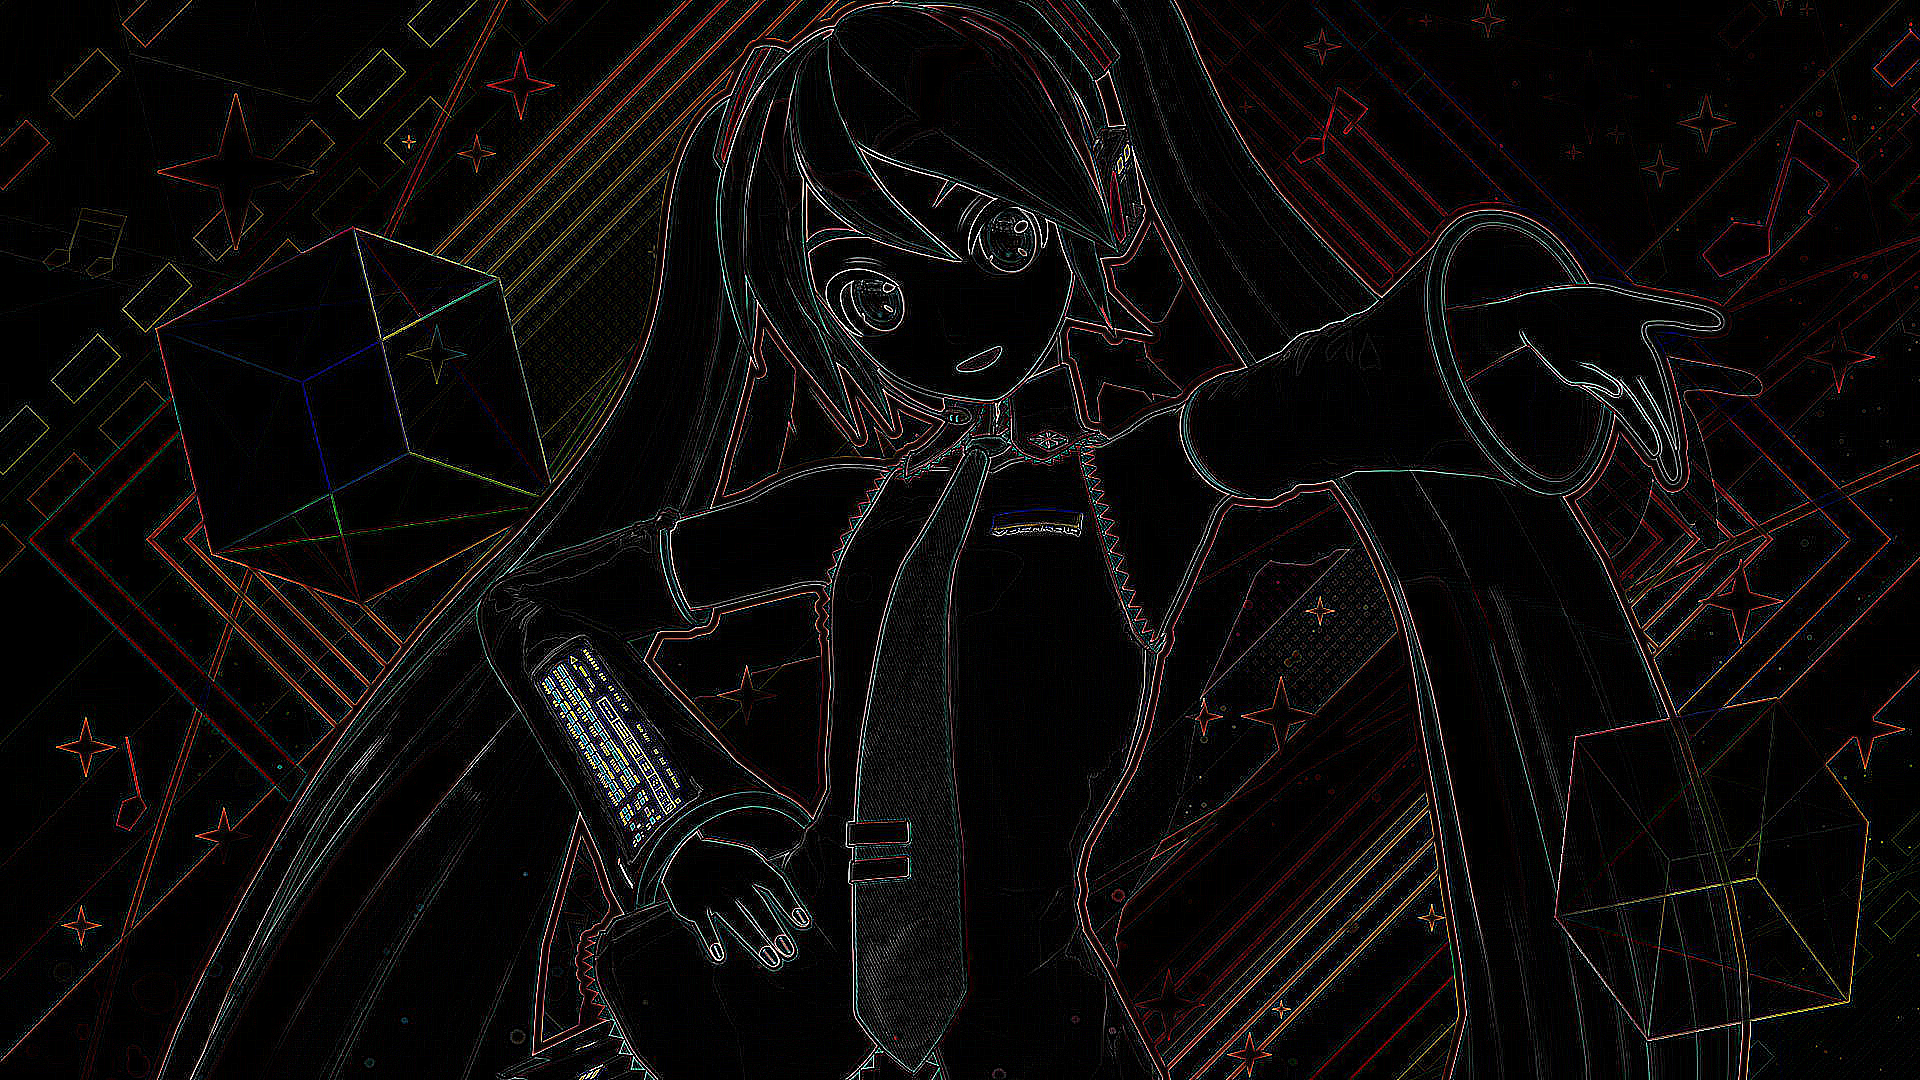
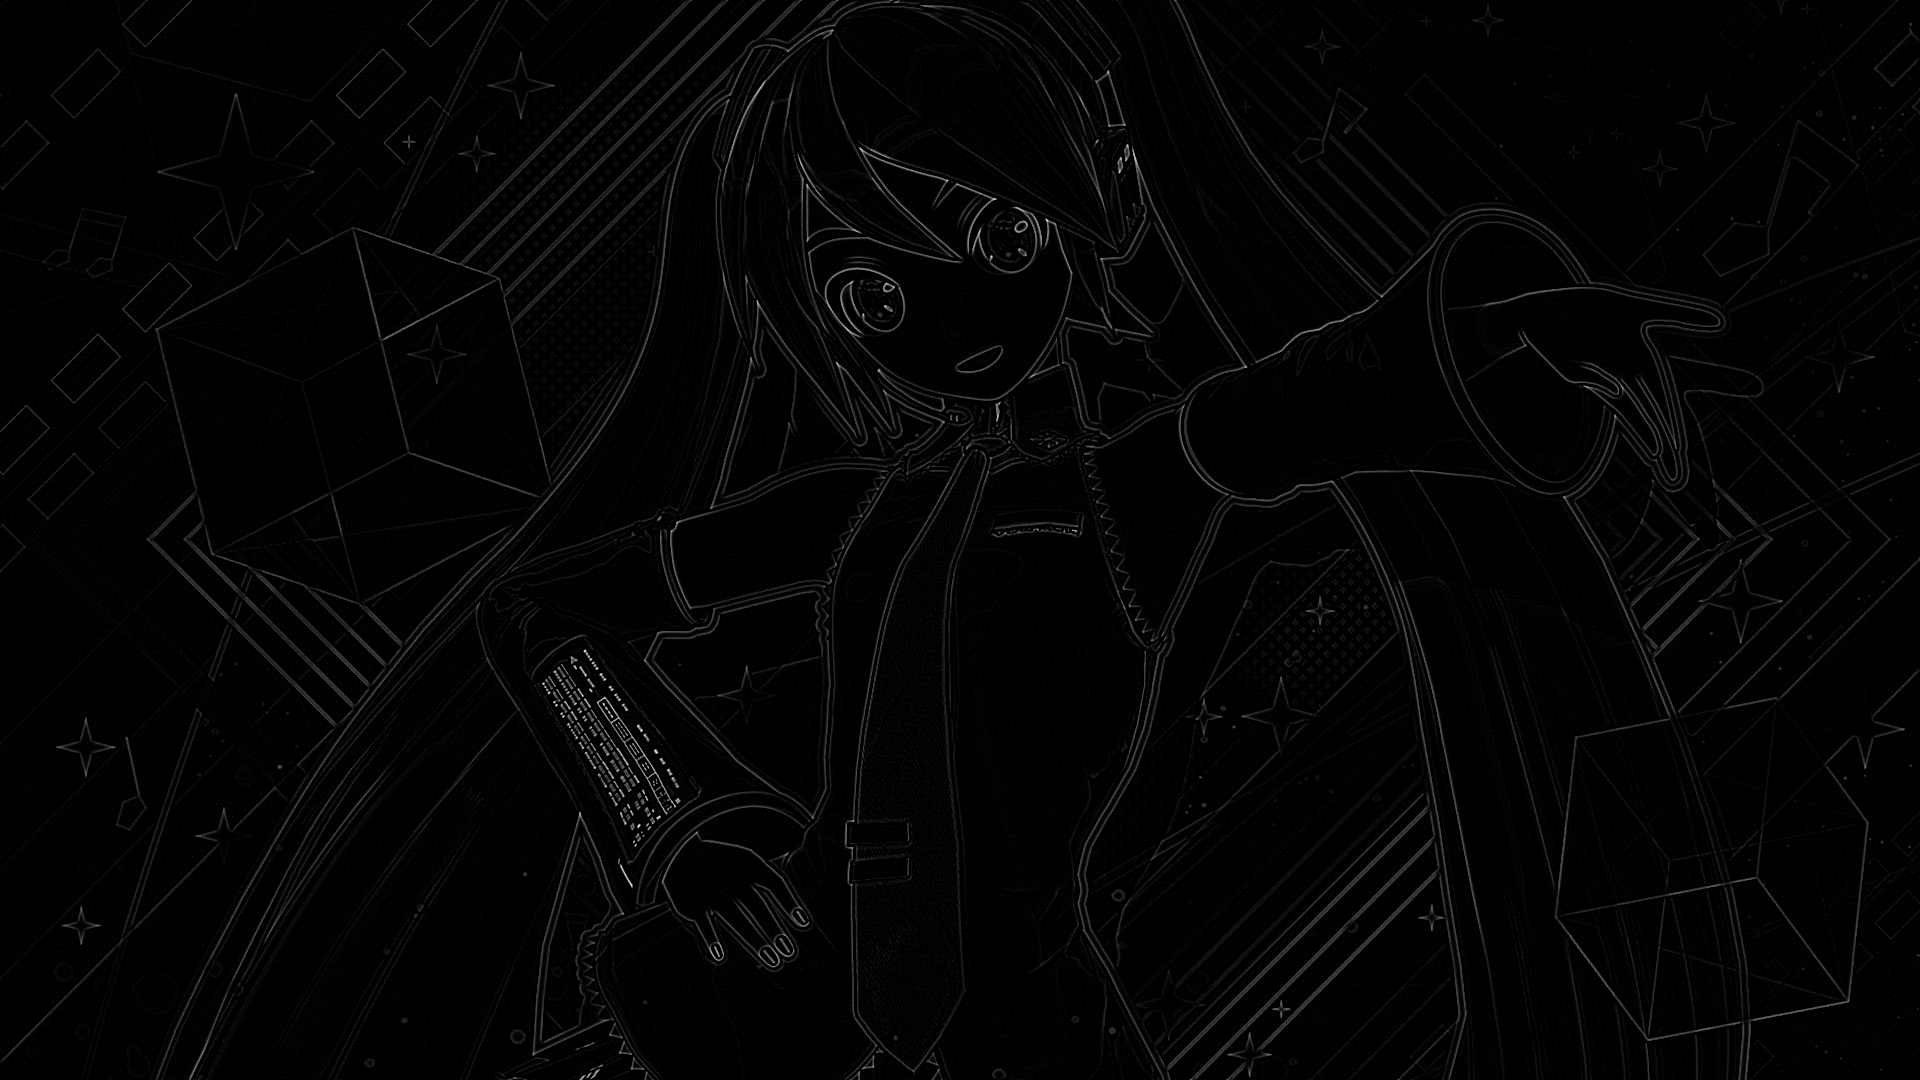
commit

diff --git a/src/main.cpp b/src/main.cpp
@@ -1,13 +1,20 @@
 #define _CRT_SECURE_NO_WARNINGS
 #include <cstdlib>
 #include <iostream>
+#define _USE_MATH_DEFINES
+#include <math.h>
 
 #define STB_IMAGE_IMPLEMENTATION
 #include "../include/stb_image.h"
 #define STB_IMAGE_WRITE_IMPLEMENTATION
 #include "../include/stb_image_write.h"
 
-uint8_t* Convolve(uint8_t* img, int w, int h, int chn, float* kernel, int kW, int kH);
+#define NUM_CHNS 3
+
+void Invert(uint8_t* img, int w, int h);
+void Convolve(uint8_t* in, uint8_t* out, int w, int h, float* kernel, int kW, int kH);
+void RGBtoGrayscale(uint8_t* img, int w, int h);
+void CalcGaussianKernel(float* k, int w, int h, float sigma);
 
 int main(int argc, char** argv) {
     
@@ -18,71 +25,112 @@ int main(int argc, char** argv) {
     //const char* inPath = argv[1];
     //const char* outPath = argv[2];
 
-    const char* inPath = "res/miku_original.jpg";
-    const char* outPath = "res/miku_out.png";
+    const char* inPath = "res/space.jpg";
+    const char* outPath = "res/space_out.png";
 
-    const int chn = 3;
     int w, h, comp;
-    uint8_t* img = stbi_load(inPath, &w, &h, &comp, chn);
+    uint8_t* img = stbi_load(inPath, &w, &h, &comp, NUM_CHNS);
     if (!img) {
         std::cerr << "Failed to load image.\n";
         return -1;
     }
 
-    float laplacian[] = {
-        -1, -1, -1,
-        -1,  8, -1,
-        -1, -1, -1
-    };
+    // grayscale conversion
+    RGBtoGrayscale(img, w, h);
 
-    float gaussian3[] = {
-        1 / 16.f, 1 /  8.f, 1 / 16.f, 
-        1 /  8.f, 1 /  4.f, 1 /  8.f, 
-        1 / 16.f, 1 /  8.f, 1 / 16.f,
-    };
+    { // gaussian convolve
+        const int kS = 20;
+        float k[kS * kS];
+        CalcGaussianKernel(k, kS, kS, 1.f);
+        uint8_t* tempBuf = new uint8_t[w * h * NUM_CHNS];
+        Convolve(img, tempBuf, w, h, k, kS, kS);
+        delete[] img;
+        img = tempBuf;
+    }
 
-    auto output = Convolve(img, w, h, chn, laplacian, 3, 3);
+    { // laplacian convolve
+        float k[] = { -1, -1, -1, -1,  8, -1, -1, -1, -1 };
+        uint8_t* tempBuf = new uint8_t[w * h * NUM_CHNS];
+        Convolve(img, tempBuf, w, h, k, 3, 3);
+        delete[] img;
+        img = tempBuf;
+    }
 
-    // write output buffer
-    stbi_write_png(outPath, w, h, chn, output, w * chn);
-    
-    // cleanup
+    // Invert(img, w, h);
+
+    // write output & cleanup
+    stbi_write_png(outPath, w, h, NUM_CHNS, img, w * NUM_CHNS);
     stbi_image_free(img);
-    delete[] output;
-
 	return 0;
 }
 
-uint8_t* Convolve(uint8_t* img, int w, int h, int chn, float* kernel, int kW, int kH) {
-    
-    uint8_t* output = new uint8_t[w * h * chn];
-    int dx = kW / 2, dy = kH / 2;
-
-    // iterate pxls in img
+void Invert(uint8_t* img, int w, int h) {
     for (int y = 0; y < h; y++) {
         for (int x = 0; x < w; x++) {
-
-            // iterate channels
-            for (int c = 0; c < chn; c++) {
-
-                float sum = 0.f;
-
-                // iterate over kernel, convolving kernel with img into sum
-                for (int ky = -dy; ky <= dy; ky++) {
-                    for (int kx = -dx; kx <= dx; kx++) {
-
-                        int ny = std::min(std::max(y + ky, 0), h - 1);
-                        int nx = std::min(std::max(x + kx, 0), w - 1);
-
-                        sum += img[chn * (ny * w + nx) + c] * kernel[(ky + dy) * kW + (kx + dx)];
-                    }
-                }
-
-                // set val in output buf to sum, for current pixel and channel
-                output[chn * (y * w + x) + c] = std::min(std::max((int)sum, 0), 255);
+            for (int c = 0; c < 3; c++) {
+                img[NUM_CHNS * (y * w + x) + c] = 255 - img[NUM_CHNS * (y * w + x) + c];
             }
         }
     }
+}
 
-    return output;
+void RGBtoGrayscale(uint8_t* img, int w, int h) {
+    // iterate pxls in img
+    for (int y = 0; y < h; y++) {
+        for (int x = 0; x < w; x++) {
+            // grayscale conversion values
+            float rMod = 0.299, gMod = 0.587, bMod = 0.114;
+
+            // calculate vals for each channel
+            float rt = ((float)img[NUM_CHNS * (y * w + x)] / 255.f) * rMod;
+            float gt = ((float)img[NUM_CHNS * (y * w + x) + 1] / 255.f) * gMod;
+            float bt = ((float)img[NUM_CHNS * (y * w + x) + 2] / 255.f) * bMod;
+
+            // sum calculated values and write to current pixel
+            uint8_t fVal = (uint8_t)std::min(std::max((int)((rt + gt + bt) * 255), 0), 255);
+            for (int c = 0; c < NUM_CHNS; c++) img[NUM_CHNS * (y * w + x) + c] = fVal;
+        }
+    }
+}
+
+void Convolve(uint8_t* in, uint8_t* out, int w, int h, float* kernel, int kW, int kH) {
+    int dx = kW / 2, dy = kH / 2;
+    // iterate pxls in img
+    for (int y = 0; y < h; y++) {
+        for (int x = 0; x < w; x++) {
+            // iterate channels
+            for (int c = 0; c < NUM_CHNS; c++) {
+                float sum = 0.f;
+                // iterate over kernel, convolving kernel with img into sum
+                for (int ky = -dy; ky <= dy; ky++) {
+                    for (int kx = -dx; kx <= dx; kx++) {
+                        int ny = std::min(std::max(y + ky, 0), h - 1);
+                        int nx = std::min(std::max(x + kx, 0), w - 1);
+                        sum += in[NUM_CHNS * (ny * w + nx) + c] * kernel[(ky + dy) * kW + (kx + dx)];
+                    }
+                }
+                // set val in output buf to sum, for current pixel and channel
+                out[NUM_CHNS * (y * w + x) + c] = std::min(std::max((int)sum, 0), 255);
+            }
+        }
+    }
+}
+
+void CalcGaussianKernel(float* k, int w, int h, float sigma) {
+    int dx = w / 2, dy = h / 2;
+    float s = 2.f * sigma * sigma, sum = 0.f;
+    // generate kernel
+    for (int y = -dy; y <= dy; y++) {
+        for (int x = -dx; x <= dx; x++) {
+            float r = sqrt(x * x + y * y);
+            k[(y + dy) * w + (x + dx)] = (exp(-(r * r) / s)) / (M_PI * s);
+            sum += k[(y + dy) * w + (x + dx)];
+        }
+    }
+    // normalise kernel
+    for (int y = 0; y < h; y++) {
+        for (int x = 0; x < w; x++) {
+            k[y * w + x] /= sum;
+        }
+    }
 }
